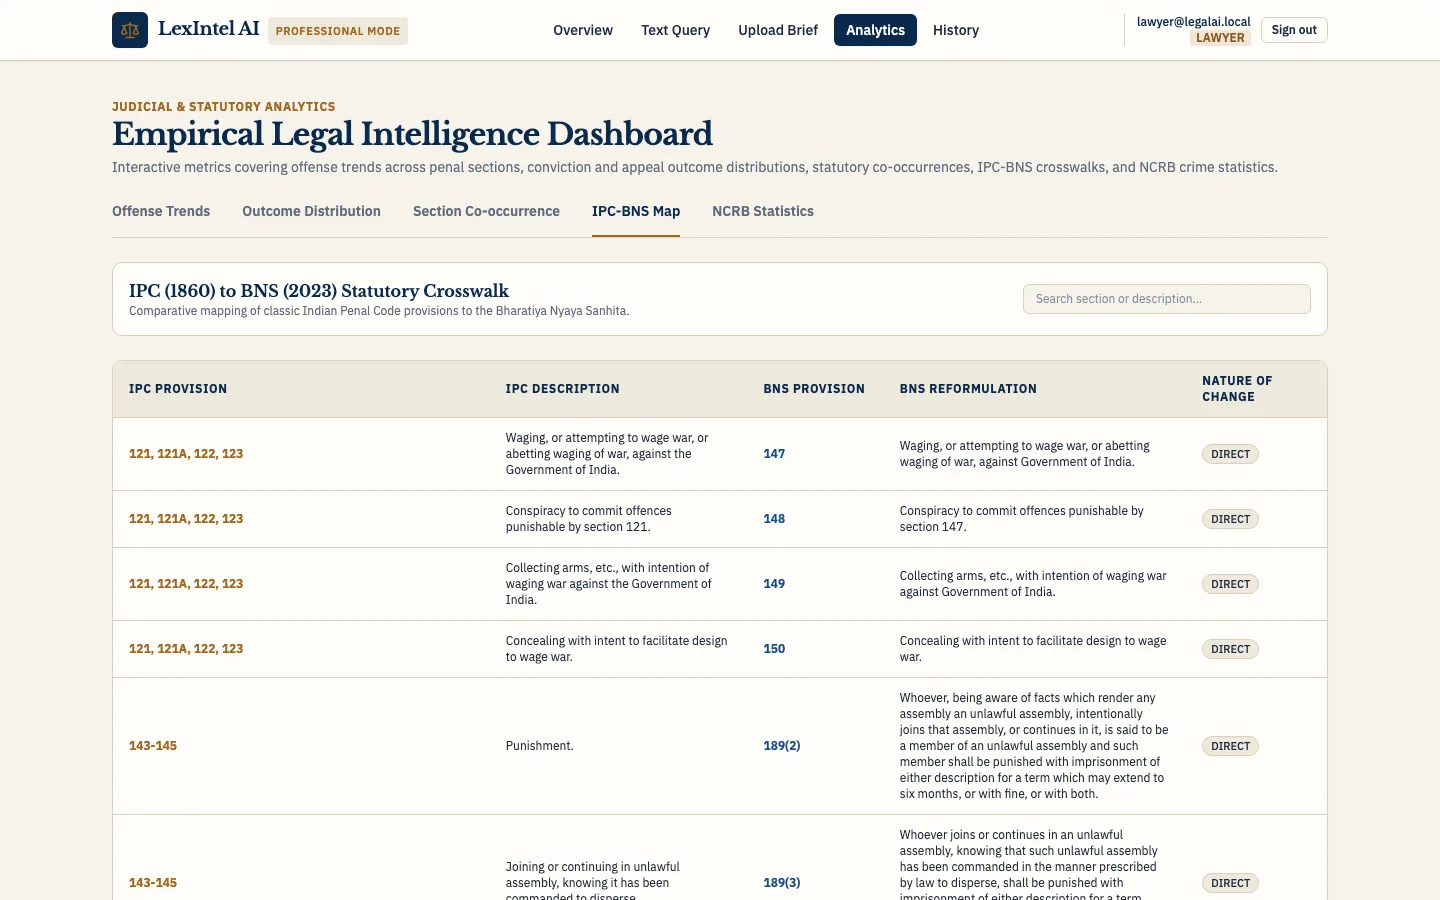
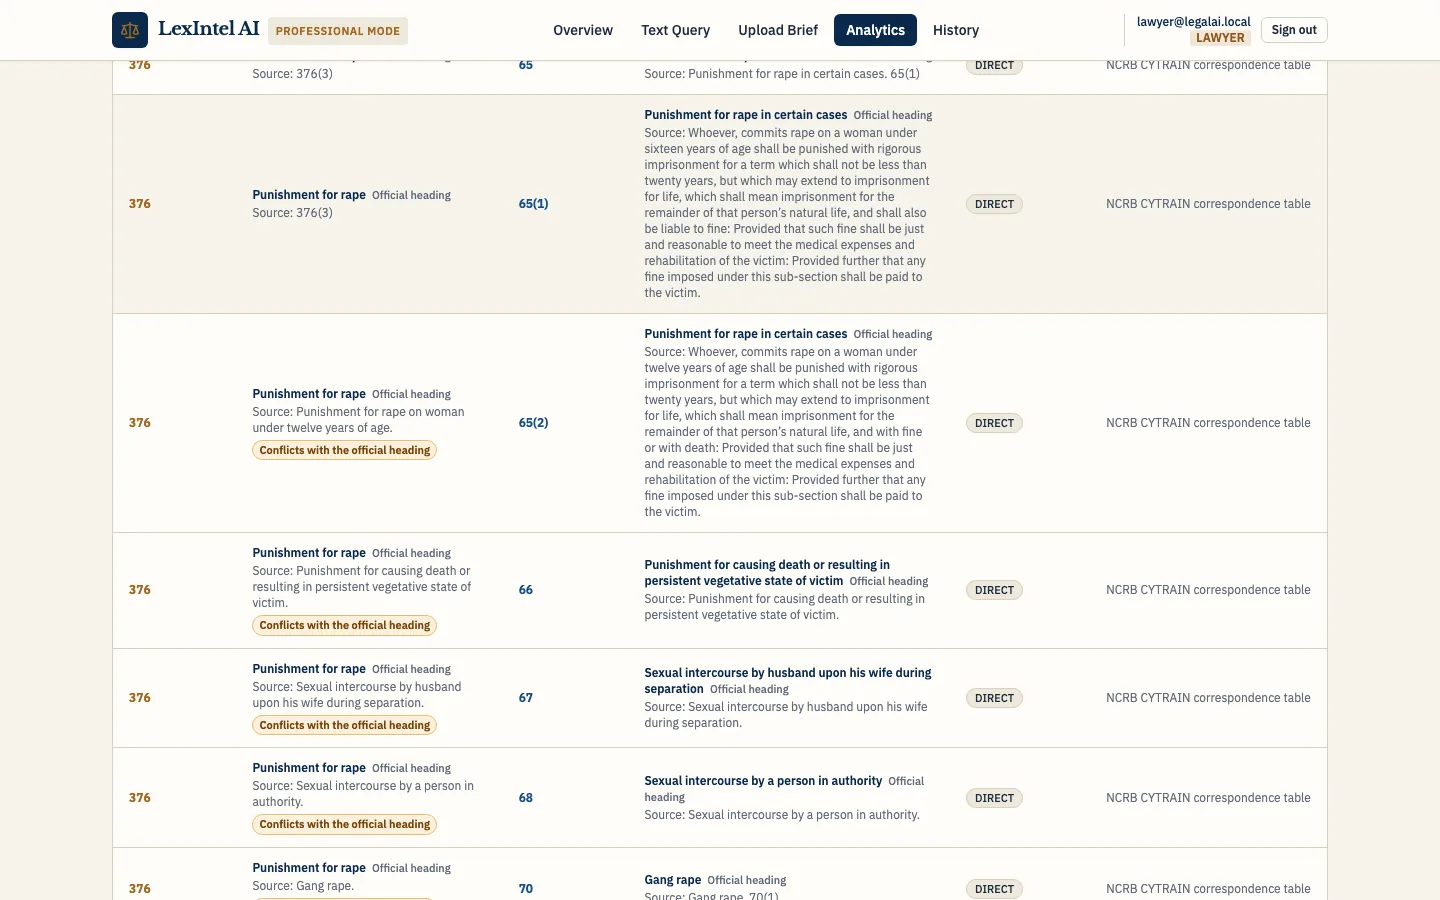
feat: replace the brief screenshots with corrected-label FIR and charge-sheet briefs

diff --git a/content/screenshots.ts b/content/screenshots.ts
@@ -67,8 +67,9 @@ export const shots = {
   },
   analyticsIpcBns: {
     src: "/screenshots/analytics-ipc-bns.webp",
-    alt: "Table mapping IPC provisions to BNS provisions with descriptions and the nature of change",
-    caption: "Analytics, IPC-BNS Map: the comparative mapping (unreviewed).",
+    alt: "IPC-BNS mapping rows for IPC 376, each showing the official heading above the source description; three rows carry the flag Conflicts with the official heading",
+    caption:
+      "Analytics, IPC-BNS Map, searched for IPC 376: each row shows the official India Code heading above the source's own description. Descriptions that conflict with the official heading are flagged and left as published (unreviewed).",
   },
   analyticsNcrb: {
     src: "/screenshots/analytics-ncrb.webp",
@@ -105,15 +106,21 @@ export const shots = {
   },
   professionalBrief: {
     src: "/screenshots/professional-brief.webp",
-    alt: "Brief from an uploaded synthetic FIR PDF with identified sections, parties and roles with page references, applicable law and procedural considerations",
+    alt: "Brief from an uploaded synthetic FIR: identified sections with official titles, two of them marked statute corrected from BNS, CrPC 154 with an unverified label, explicit provisions listing Section 173 BNSS, and parties and roles with page references",
     caption:
-      "A live brief from a synthetic FIR (invented names and places), uploaded privately. Parties and procedural steps come with page references such as [P1, pp. 1-2]. The model's one-line section labels are wrong here: BNS 309(4) is robbery and BNS 115(2) is voluntarily causing hurt, and Section 173 is in the BNSS. This is why answers must be checked against the statute.",
+      "A live brief from a synthetic FIR (invented names and places), captured 13 November 2026 with gpt-oss-120b. Section titles come from India Code: the answer cited BNS 173 and BNS 176, which were corrected to BNSS 173 (Information in cognizable cases) and BNSS 176 (Procedure for investigation); the model's own wording stays in the data only. CrPC 154 has no official heading, so the model's label is shown marked unverified. Parties & Roles come from the combined InLegalBERT and rules NER (on this fixture the rules alone find the same two). Two flaws remain visible: the section cards above the tabs label the corrected BNSS sections “BNS”, a display bug in the card (the list below shows BNSS), and the summary's prose attributes all three sections to the BNSS, because section names inside free text are not checked.",
   },
   professionalBriefDetail: {
     src: "/screenshots/professional-brief-detail.webp",
-    alt: "The same brief's dated chronology, explicit provisions, evidence by category and key legal issues, each item with a page reference",
+    alt: "The same brief's dated chronology and evidence by category, each item with a page reference",
     caption:
-      "The same brief further down: a dated chronology and evidence by category (witness, electronic, medical), each with its page reference. The model also noted that the FIR's dates fall before the BNS took effect on 1 July 2024.",
+      "The same brief further down: a dated chronology and evidence by category (witness, electronic, medical/forensic), each item with its page reference.",
+  },
+  professionalBriefChargesheet: {
+    src: "/screenshots/professional-brief-chargesheet.webp",
+    alt: "Brief from an uploaded synthetic charge sheet: IPC 420, 406 and 120B with official headings, CrPC 438 with a catalog title, CrPC 161 and 173(2) with unverified labels, and parties and roles listing two accused and the complainant",
+    caption:
+      "A live brief from a synthetic charge sheet, captured 13 November 2026. IPC 420, 406 and 120B show their official India Code headings and CrPC 438 its catalog title; CrPC 161 and 173(2) have no trusted title, so the model's wording is shown marked unverified (the CrPC gap). Parties & Roles list both accused and the complainant with page references, with no cut-off duplicate name such as E4's “Dev Fake”.",
   },
   ocr: {
     alt: "Answer for a scanned FIR showing the low-confidence OCR note",

diff --git a/app/demo/page.tsx b/app/demo/page.tsx
@@ -24,6 +24,7 @@ const gallery = [
   shots.professionalPrecedents,
   shots.professionalBrief,
   shots.professionalBriefDetail,
+  shots.professionalBriefChargesheet,
   shots.analyticsTrends,
   shots.analyticsOutcomes,
   shots.analyticsCooccurrence,
